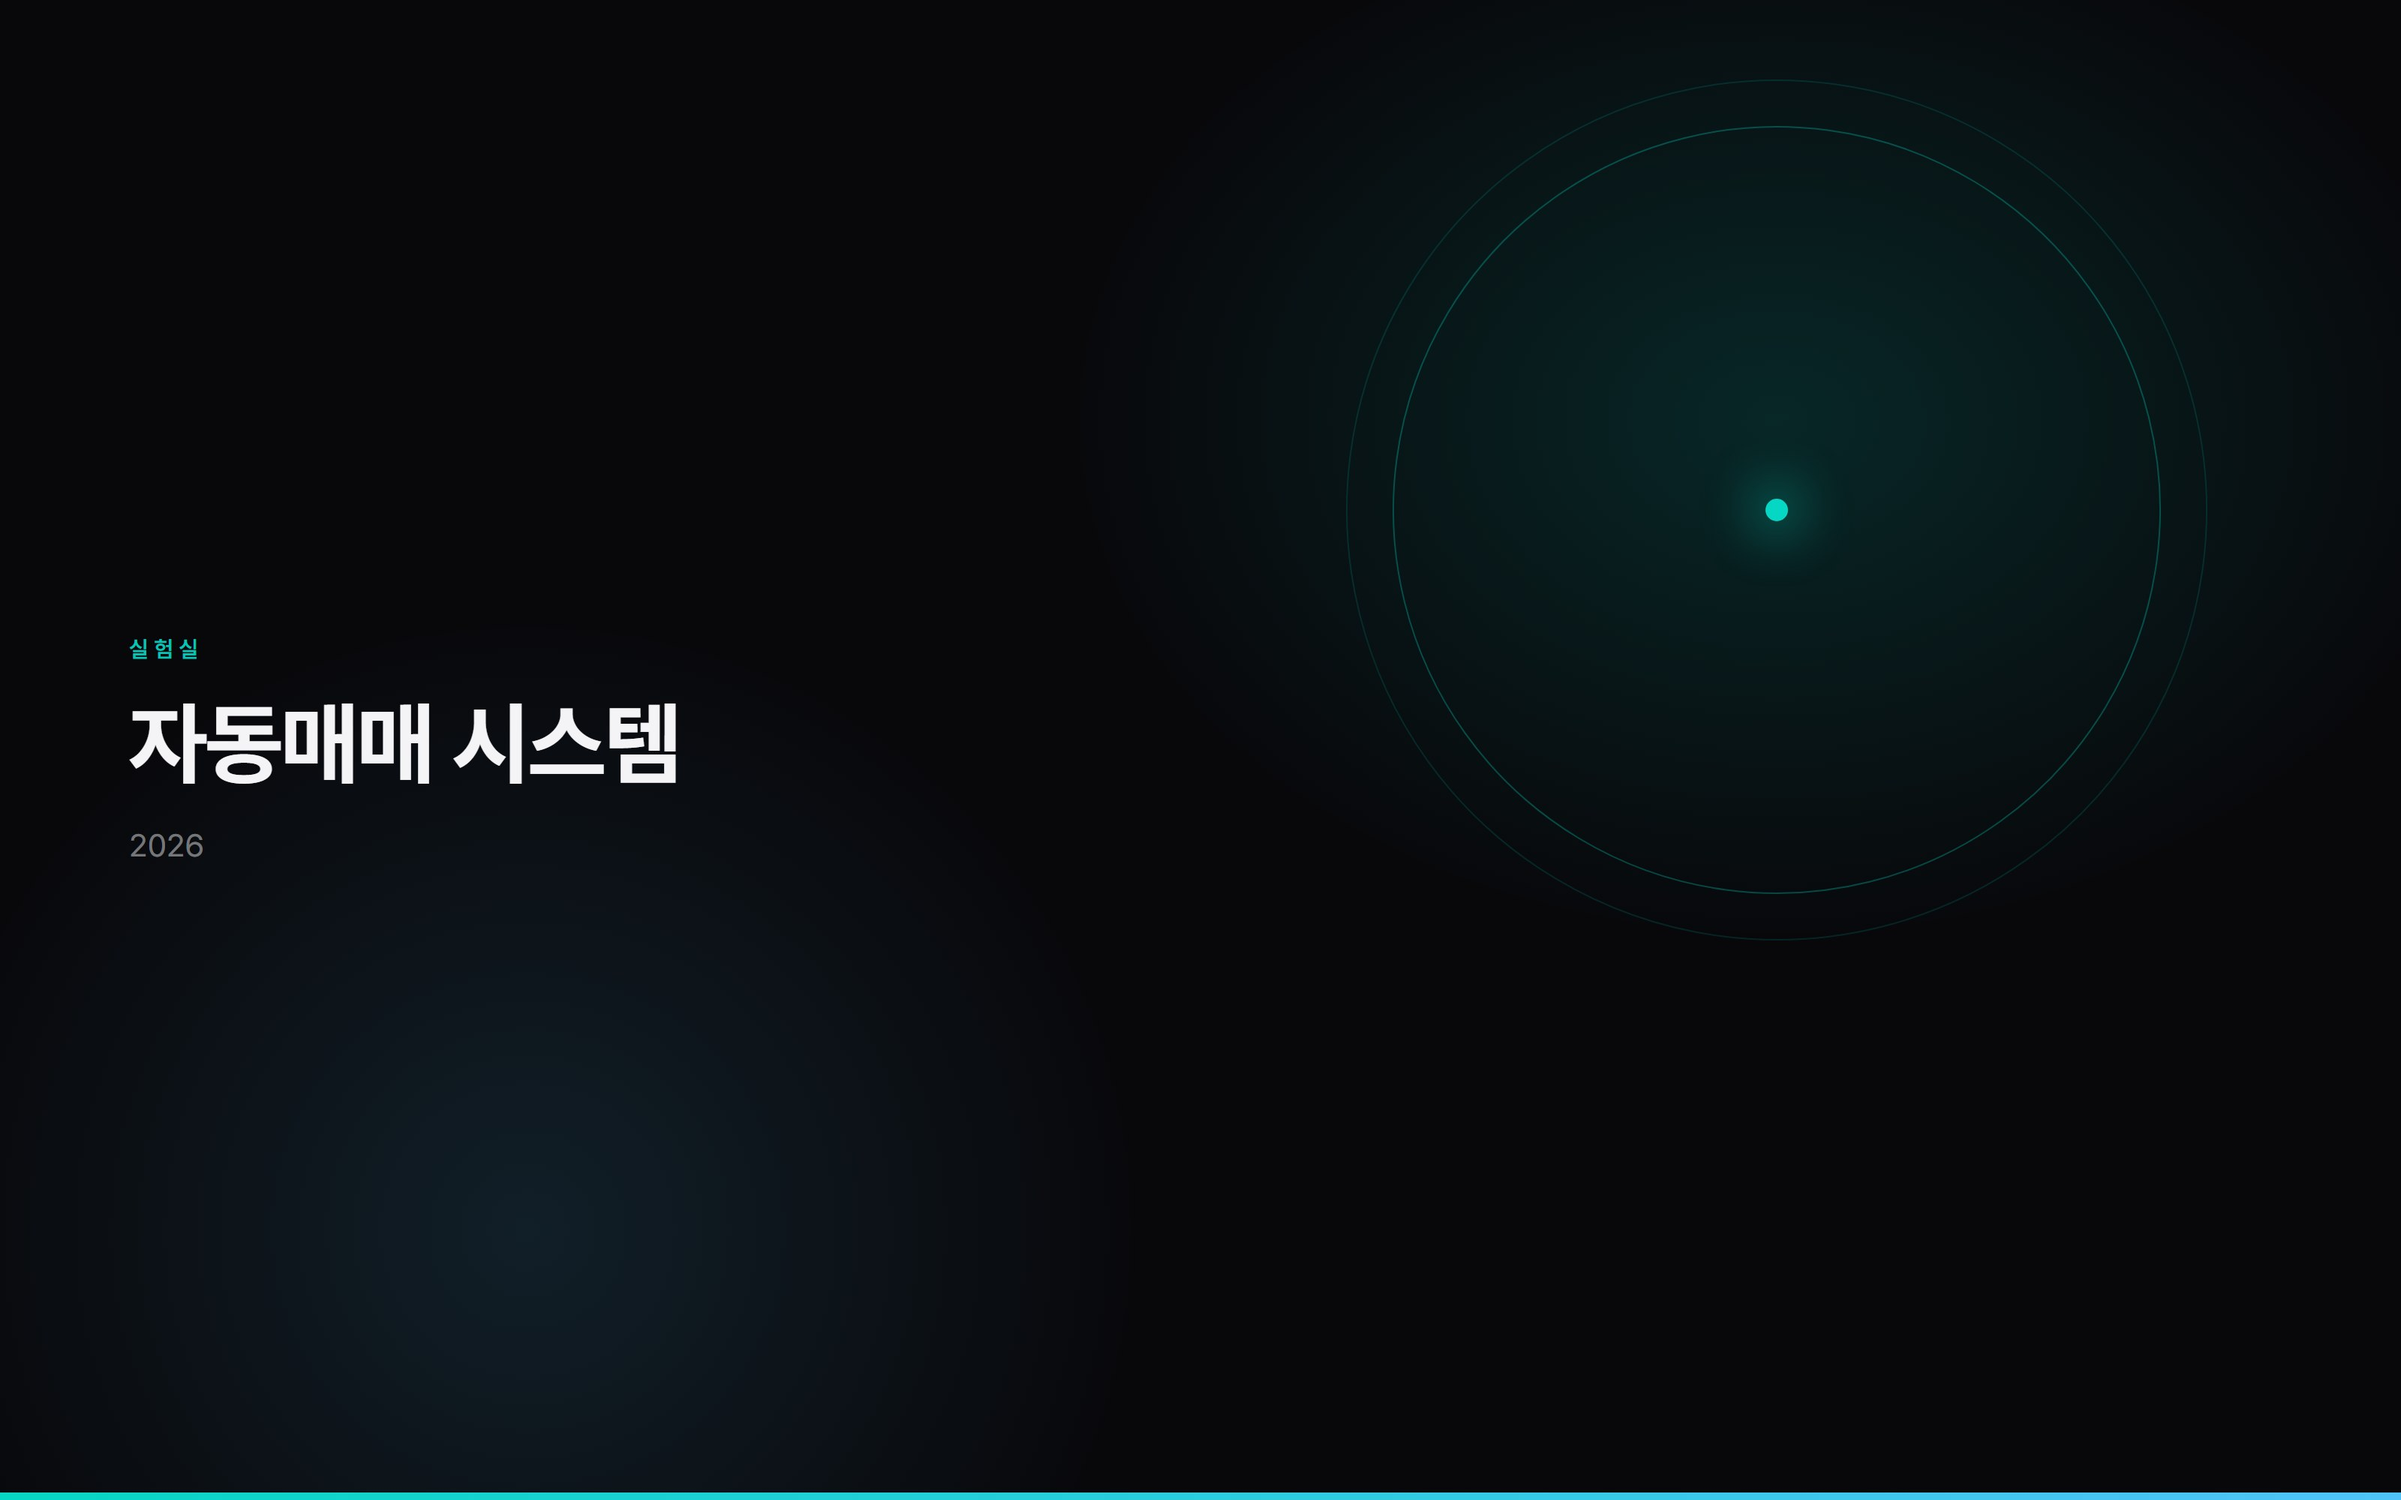
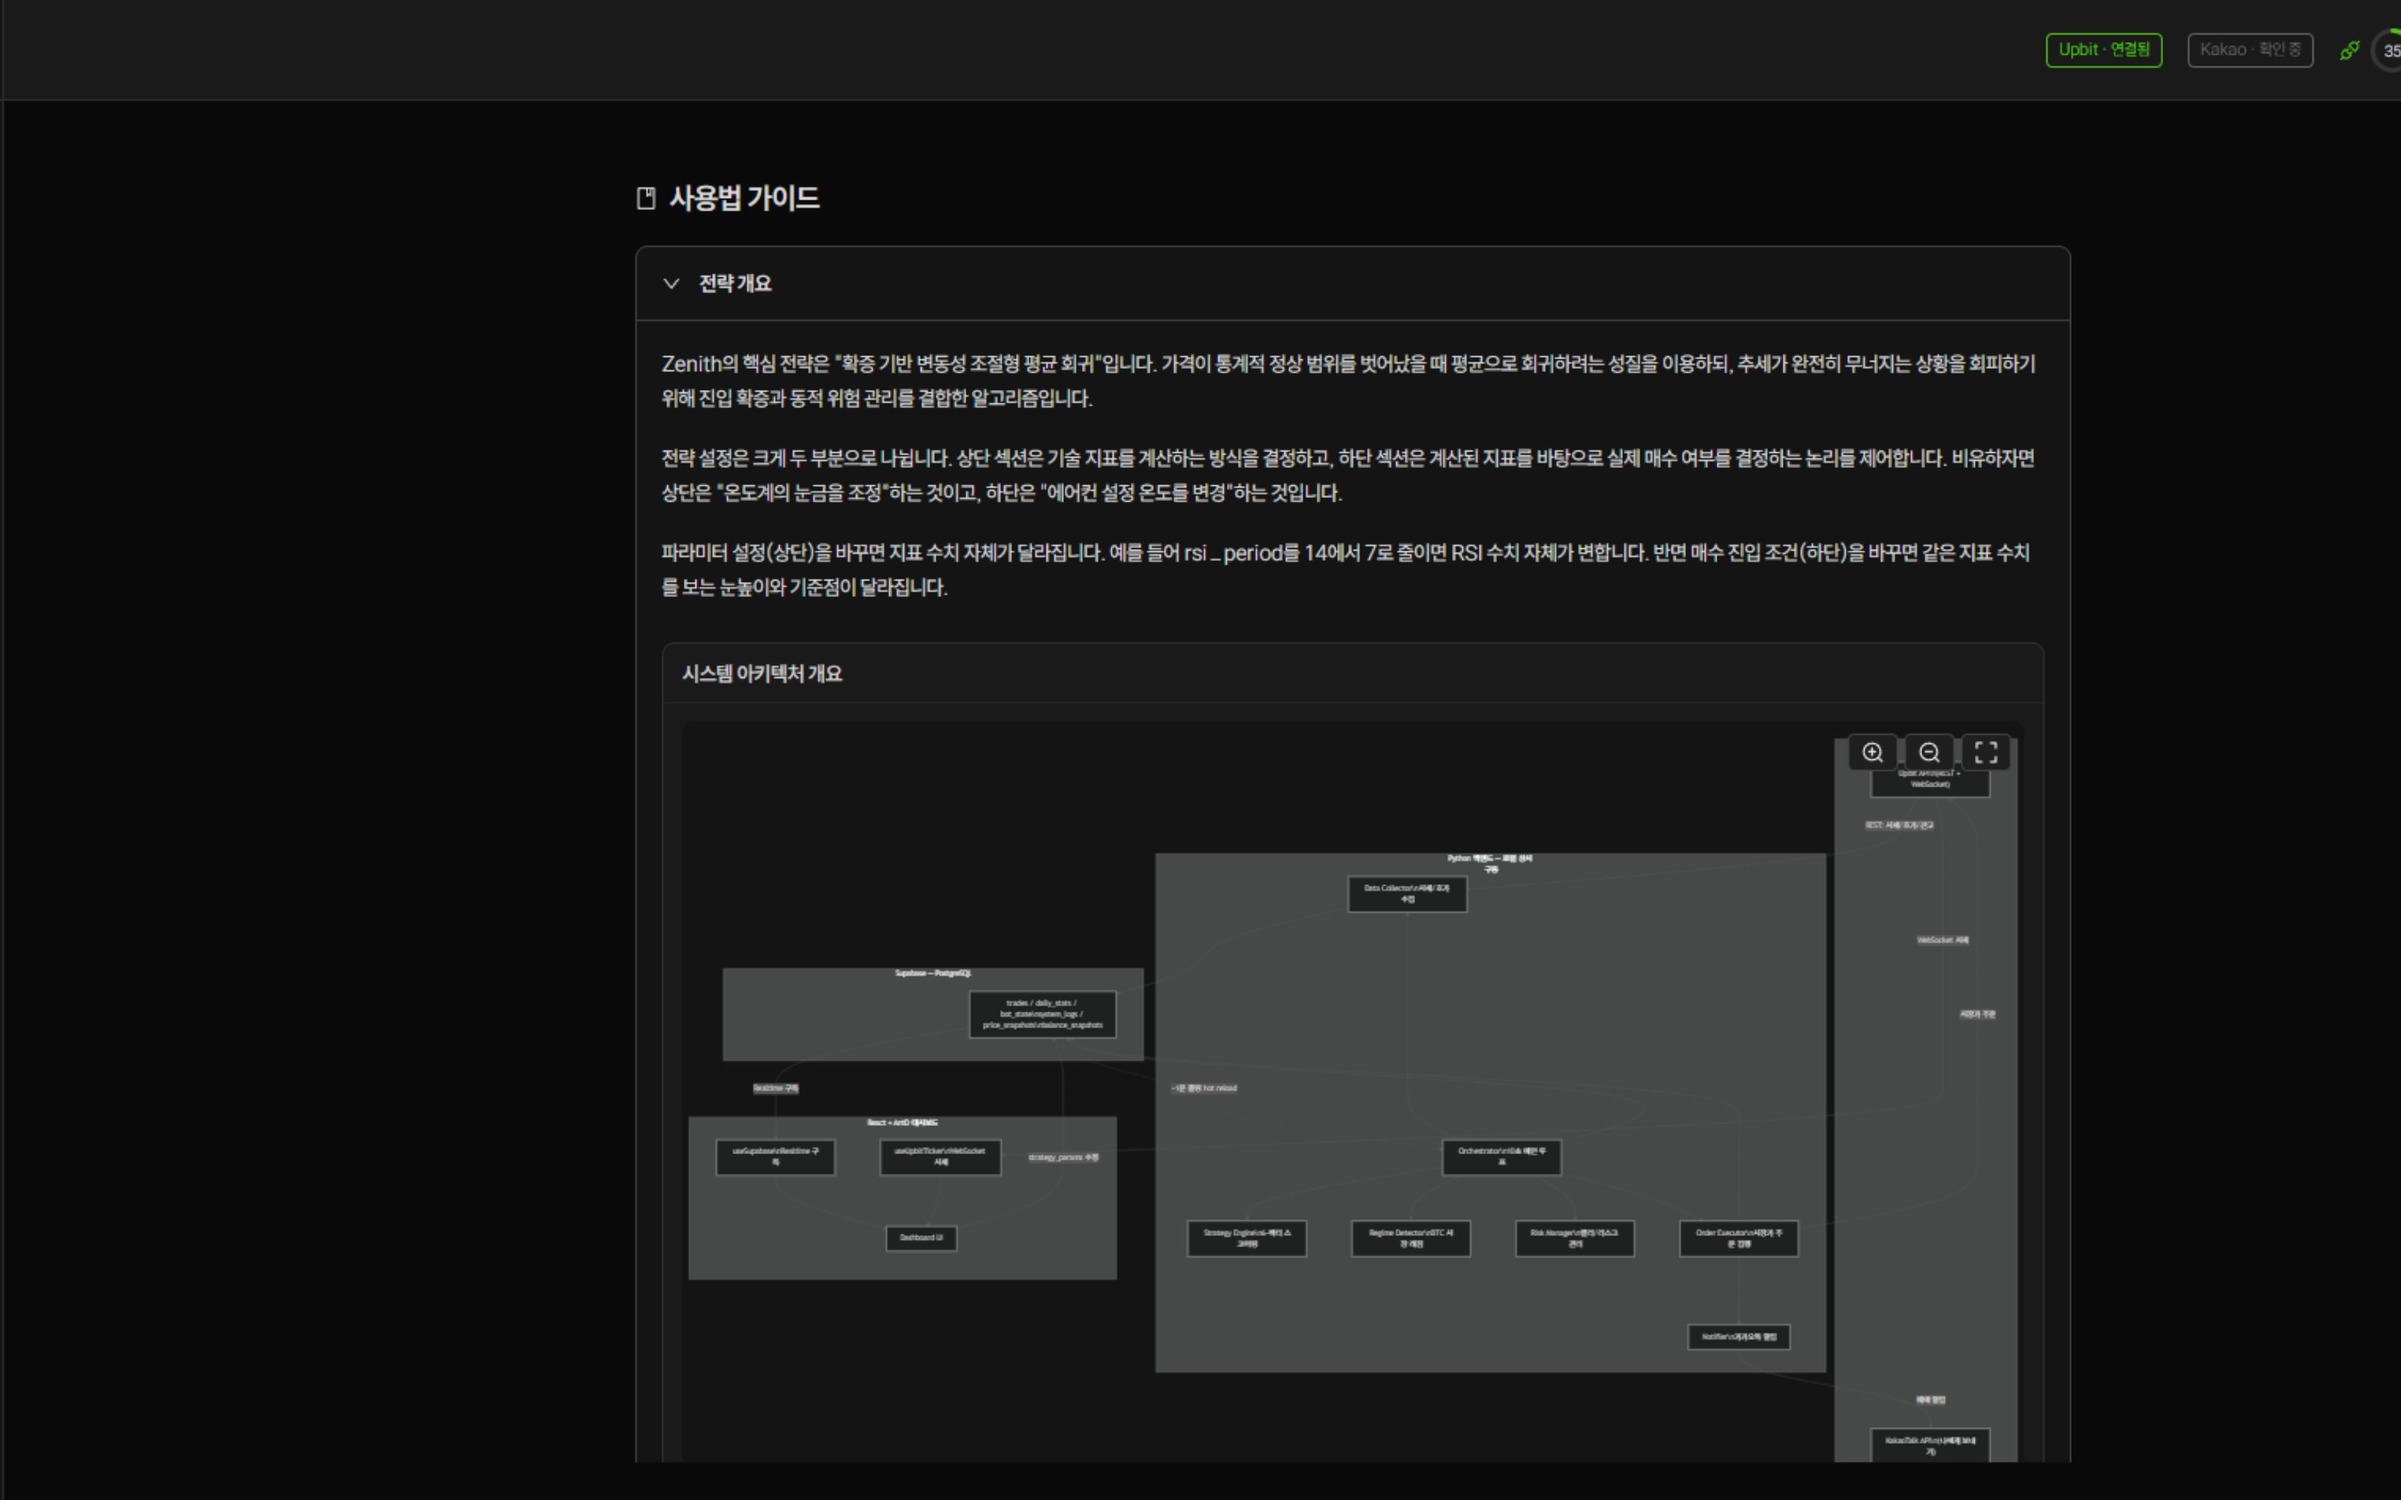
content: 플레이스홀더 3개를 실제 화면으로 바꾸고 doc-merge 에 데모를 걸었다
노드 39개를 전부 열어 실측했다. 이미지 39장 중 21장이 플레이스홀더였고,
그중 실제 화면을 구할 수 있는 것이 셋 있었다.

- trading-lab: zenith 저장소의 guide-page-loaded.png. 사이드바와
  "Upbit · 연결됨" 배지, 시스템 아키텍처 다이어그램이 보이는 실제 앱 화면이다.
  계정 이름은 TestUser 라 노출되는 개인 정보가 없다.
- doc-merge: GitHub Pages 로 아직 돌고 있다(실측 200). 그 화면을 찍었고
  "화면 열어보기" 링크도 걸었다. backend 영역에서 데모가 걸린 첫 노드다.
- figma-gen: chanchan2.vercel.app 의 디자인 시스템 문서 화면.

쓰지 않은 것 — coin-lab-v2/screen.png 은 보기 좋지만 DESIGN.md 와 함께
있는 목업이고 수치가 실제 매매 결과가 아니다. 성과로 읽힐 수 있어 뺐다.

검증: tsc 0 · lint 0 · unit 20 · e2e 3 · build 성공. 링크 38개 전부 200.
39개 노드 순회에서 pageerror 0.

diff --git a/chanki-react/data/nodes.ts b/chanki-react/data/nodes.ts
@@ -328,6 +328,12 @@ export const NODES: ContentNode[] = [
     "sum": "같은 내용을 여러 엑셀에 반복 입력하던 업무를, 기획부터 서버까지 혼자 만들어 한 시스템으로 합쳤습니다.",
     "body": "도서 납품과 관련된 여러 종류의 문서를 한 번에 관리하고 자동 처리하는 웹서비스입니다. 기존에는 서로 다른 엑셀과 문서에 같은 정보를 반복 입력해야 했습니다. 이 문제를 기획 단계부터 정의하고 프론트엔드와 백엔드를 모두 직접 만들어 해결했습니다. 실제 업무의 불편을 제품으로 바꾼 경험이라 가장 애착이 갑니다.",
     "cap": "문서 통합 관리 서비스",
+    "links": [
+      [
+        "화면 열어보기",
+        "https://blackstarzck.github.io/doc-merge/"
+      ]
+    ],
     "project": {
       "role": "기획부터 프론트엔드·백엔드까지 전 과정 1인 개발",
       "duration": "2025.02 - 2025.07",

diff --git a/chanki-react/tools/gen-content.py b/chanki-react/tools/gen-content.py
@@ -200,7 +200,8 @@ node("doc-merge", "문서 통합 관리 서비스", "backend", "케듀올 · 202
                 "Ant Design·Tailwind·styled-components로 관리용 UI/UX 구축"],
        skills=[["NestJS · TypeORM", "first"], ["PostgreSQL", "first"], ["Redux Toolkit · SWR", "grew"],
                ["AG Grid", "first"], ["ExcelJS", "first"], ["React · TypeScript", "core"]],
-       ))
+       ),
+     links=[["화면 열어보기", "https://blackstarzck.github.io/doc-merge/"]])
 
 node("supabase", "Supabase 인증 · RLS", "backend", "케듀올 · 2026",
      "권한을 애플리케이션이 아니라 DB 레벨에서 다루는 방식을 처음 적용했습니다.",
